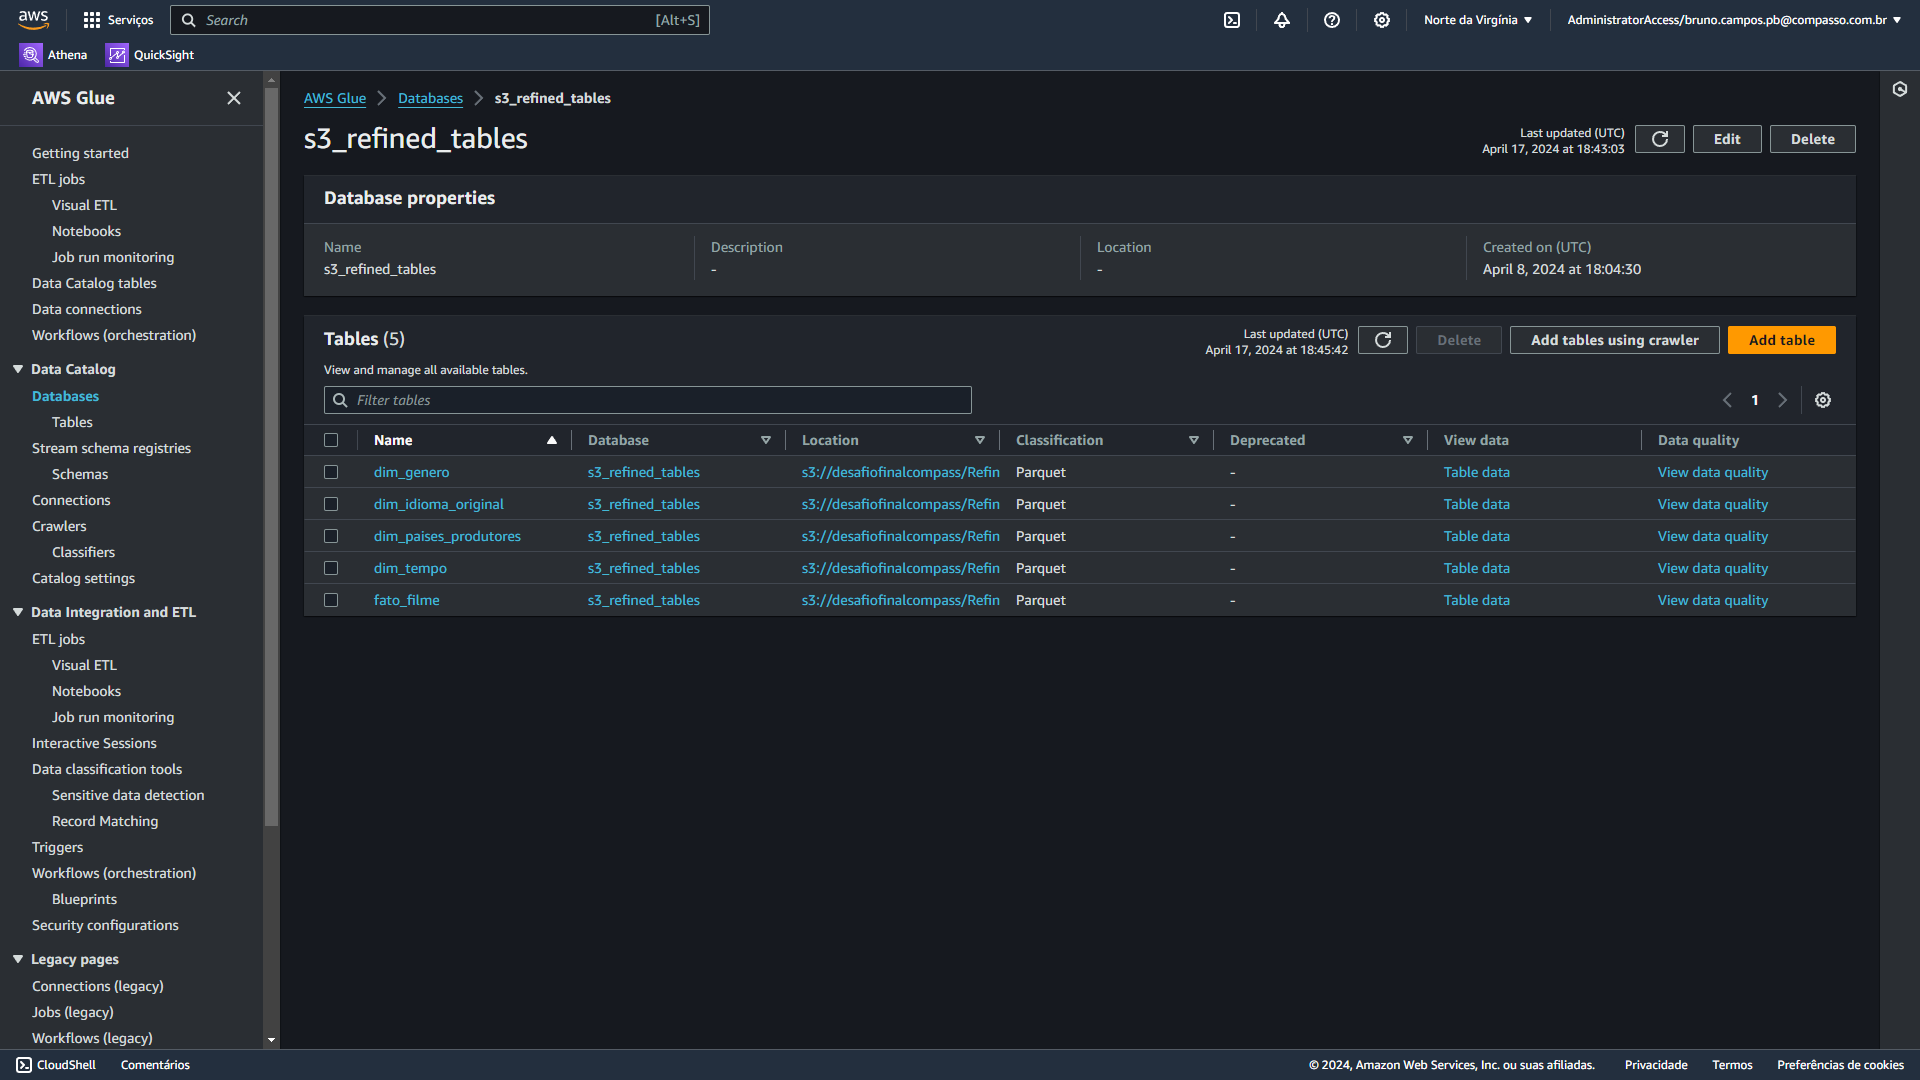
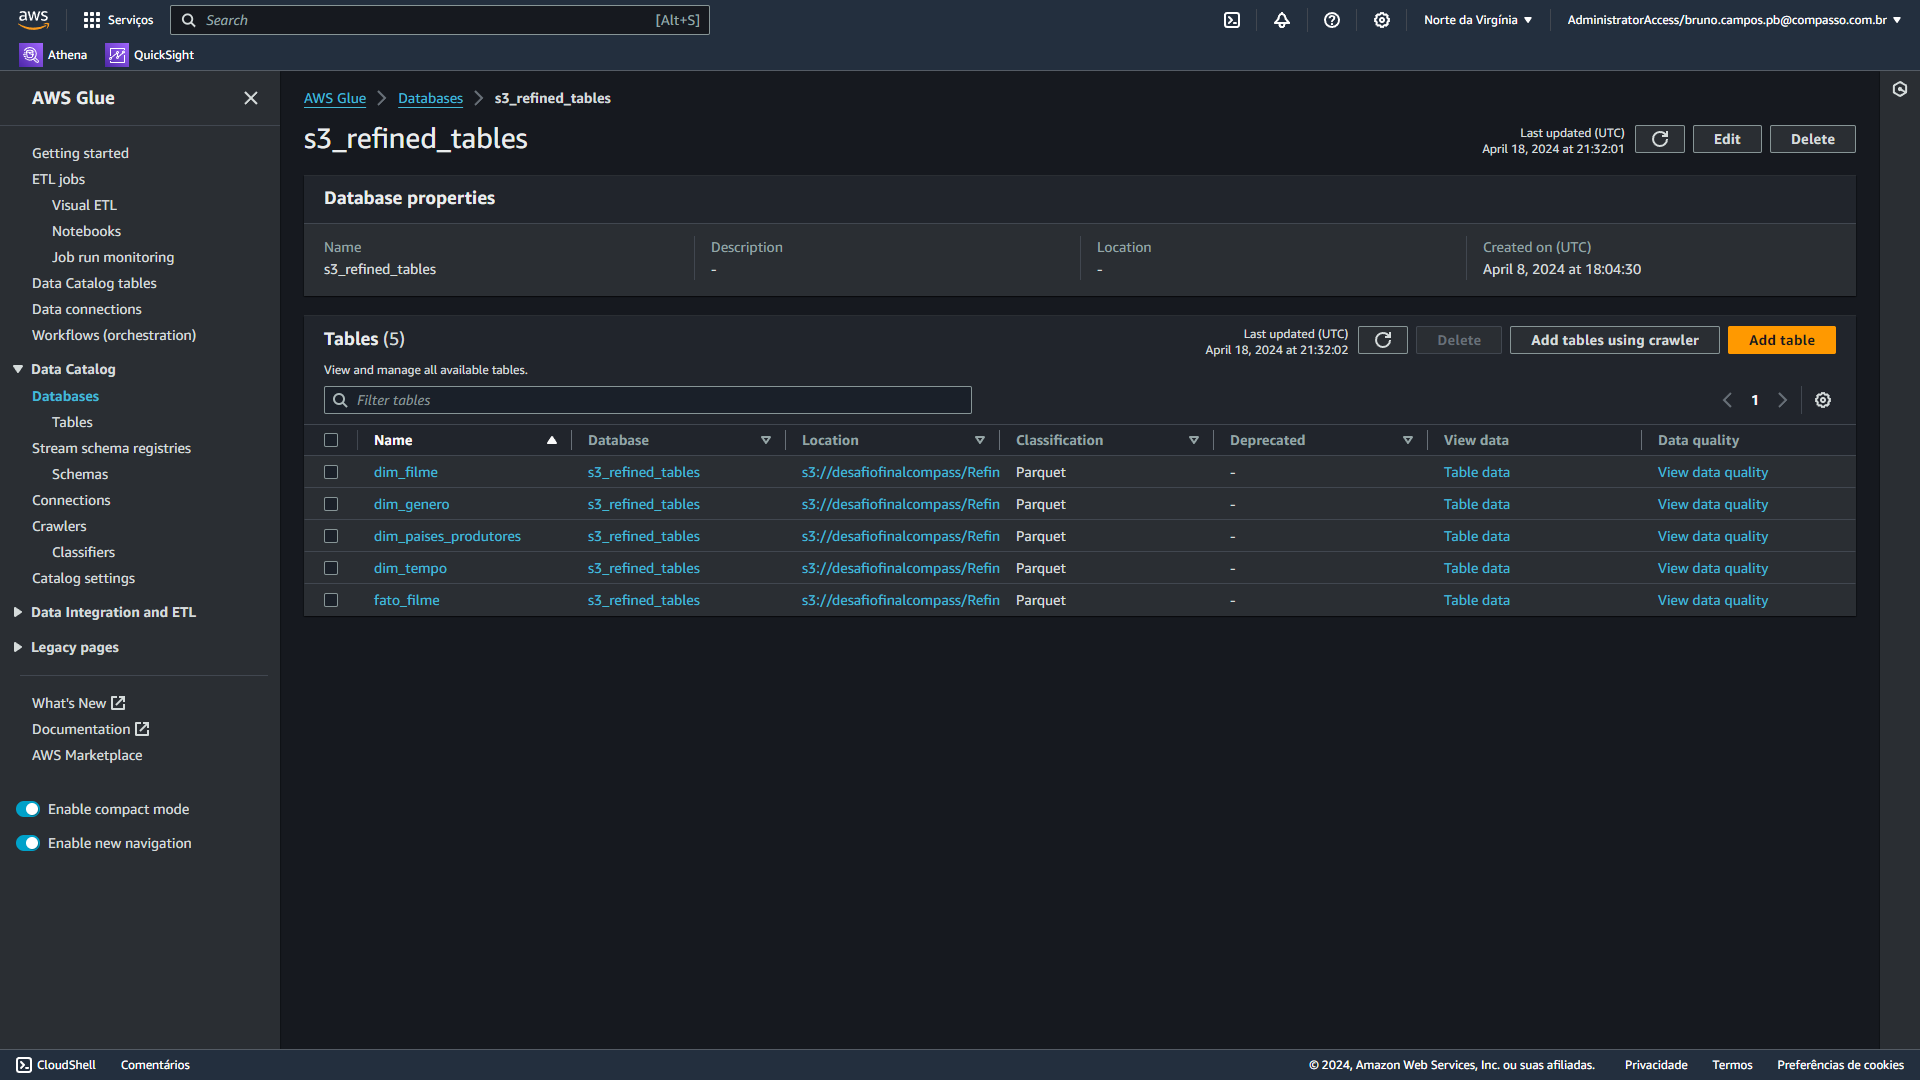
updates readme

Changed region(s): [[0.0, 0.0611, 0.1562, 0.9778], [0.8125, 0.1222, 0.8438, 0.1528], [0.2188, 0.4583, 0.25, 0.4889]]

diff --git a/Desafio/etapa-3/csv_parquet.py b/Desafio/etapa-3/csv_parquet.py
@@ -7,8 +7,7 @@ from awsglue.job import Job
 from pyspark.sql.functions import *
 
 # @params: [JOB_NAME]
-args = getResolvedOptions(
-    sys.argv, ['JOB_NAME', 'S3_INPUT_PATH', 'S3_TARGET_PATH'])
+args = getResolvedOptions(sys.argv, ['JOB_NAME', 'S3_TARGET_PATH'])
 
 sc = SparkContext()
 glueContext = GlueContext(sc)
@@ -16,19 +15,87 @@ spark = glueContext.spark_session
 job = Job(glueContext)
 job.init(args['JOB_NAME'], args)
 
-source_file = args['S3_INPUT_PATH']
 target_path = args['S3_TARGET_PATH']
 
-df_csv = spark.read.csv(source_file, header=True, sep='|')
+df_csv = spark.read.parquet('s3://desafiofinalcompass/Trusted/*.parquet')
 
-df_csv_filtrado = df_csv.drop("generoArtista", "nomeArtista", "anoNascimento", "anoFalecimento",
-                              "profissao", "titulosMaisConhecidos", "personagem", "tituloOriginal", "anoLancamento")
+df_json = spark.read.parquet(
+    's3://desafiofinalcompass/Trusted/dt=2024-03-26/*.parquet')
 
-df_csv_filtrado = df_csv_filtrado.filter(
-    (col('genero') == 'Drama') | (col('genero') == 'Romance')).dropDuplicates()
+for column in [column for column in df_json.columns if column not in df_csv.columns]:
+    df_csv = df_csv.withColumn(column, lit(None))
 
-df_csv_filtrado = df_csv_filtrado.coalesce(1)
+for column in [column for column in df_csv.columns if column not in df_json.columns]:
+    df_json = df_json.withColumn(column, lit(None))
 
-df_csv_filtrado.write.mode('append').parquet(target_path)
+merged_df = df_csv.unionByName(df_json)
+
+# DataFrame correspondente à dimensão filme
+dim_filme = merged_df.select('id', coalesce(col('imdb_id'), col('id')).alias('id_imdb'), coalesce(col(
+    'tituloPincipal'), col('title')).alias('titulo'), coalesce(col('tempoMinutos'), col('runtime')).alias('duracao_minutos'))
+dim_filme.write.format('parquet').save(f'{target_path}/dim_filme')
+
+# DataFrame correspondente à dimensão tempo
+dim_tempo = merged_df.select(col('release_date').alias('data_lancamento'))
+dim_tempo = dim_tempo.withColumn(
+    'ano_lancamento', year(dim_tempo['data_lancamento']))
+dim_tempo = dim_tempo.withColumn(
+    'mes_lancamento', month(dim_tempo['data_lancamento']))
+dim_tempo = dim_tempo.withColumn(
+    'dia_lancamento', dayofmonth(dim_tempo['data_lancamento']))
+dim_tempo = dim_tempo.select(to_date(col('data_lancamento'), 'yyyy-MM-dd').alias('data_lancamento'), 'ano_lancamento',
+                             'mes_lancamento', 'dia_lancamento').dropna(how='any', subset=None).dropDuplicates().coalesce(1)
+dim_tempo.write.format('parquet').save(f'{target_path}/dim_tempo')
+
+# DataFrame correspondente à dimensão países produtores
+dim_paises_prod = merged_df.select(explode('production_countries').alias(
+    'part')).select(col('part.name').alias('paises_prod_nome')).dropDuplicates()
+dim_paises_prod = dim_paises_prod.withColumn(
+    'cod_paises_prod', lit(monotonically_increasing_id()))
+dim_paises_prod.write.format('parquet').save(
+    f'{target_path}/dim_paises_produtores')
+
+# DataFrame correspondente à dimensão genero
+dim_genero = merged_df.select(explode('genres').alias('part')).select(col('part.id').alias('genre_id'), col(
+    'part.name').alias('genre_name')).filter((col('part.name') == 'Drama') | (col('part.name') == 'Romance')).dropDuplicates()
+dim_genero.write.format('parquet').save(f'{target_path}/dim_genero')
+
+# DataFrame correspondente à tabela fato filme
+fato_filme = merged_df.select('id', col('release_date').alias('data_lancamento'), coalesce(col('notaMedia'), col('vote_average')).alias('nota_media'), coalesce(col(
+    'numeroVotos'), col('vote_count')).alias('numero_votos'), col('budget').alias('orcamento'), col('popularity').alias('popularidade'), col('revenue').alias('receita'))
+
+# Adiciona os ids da dim_filme à tabela fato_filme
+filme_df = merged_df.select(col('id').alias(
+    'temp_id'), 'runtime', 'title', 'imdb_id')
+fato_filme = fato_filme.join(filme_df, fato_filme.id == filme_df.temp_id, 'left').drop(
+    'temp_id', 'runtime', 'title', 'imdb_id')
+
+# Adiciona os ids da dim_paises_produtores à tabela fato_filme
+paises_prod_df = merged_df.select(col('id').alias(
+    'temp_id'), explode('production_countries.name').alias('names'))
+paises_prod_df = paises_prod_df.join(dim_paises_prod, paises_prod_df.names ==
+                                     dim_paises_prod.paises_prod_nome, 'left').drop('names', 'paises_prod_nome')
+fato_filme = fato_filme.join(
+    paises_prod_df, fato_filme.id == paises_prod_df.temp_id, 'left').drop('temp_id')
+
+# Adiciona os ids da dim_genero à tabela fato_filme
+genero_df = merged_df.select(col('id').alias('temp_id'), explode(
+    'genres.id').alias('genero_id'), col('genero').alias('genero_filme_csv'))
+genero_df = genero_df.join(dim_genero, genero_df.genero_id ==
+                           dim_genero.genre_id).drop('genre_id', 'genre_name')
+genero_df = genero_df.select('temp_id', coalesce(
+    col('genero_id'), col('genero_filme_csv')).alias('cod_genero'))
+fato_filme = fato_filme.join(
+    genero_df, fato_filme.id == genero_df.temp_id, 'left').drop('temp_id')
+
+fato_filme = fato_filme.withColumn(
+    'data_lancamento', to_date(col('data_lancamento'), 'yyyy-MM-dd'))
+fato_filme = fato_filme.withColumn(
+    'nota_media', col('nota_media').cast('double'))
+fato_filme = fato_filme.withColumn(
+    'numero_votos', col('numero_votos').cast('integer'))
+
+fato_filme = fato_filme.coalesce(1)
+fato_filme.write.format('parquet').save(f'{target_path}/fato_filme')
 
 job.commit()
